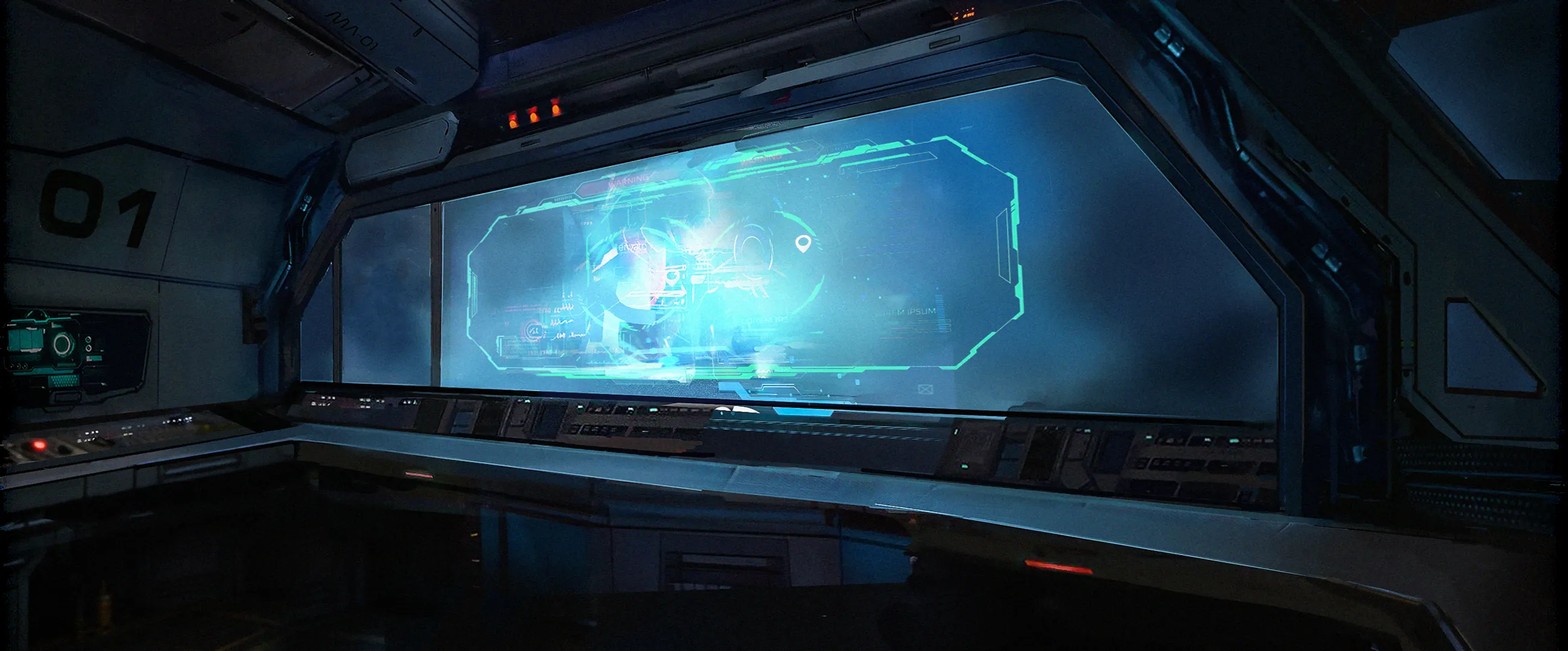
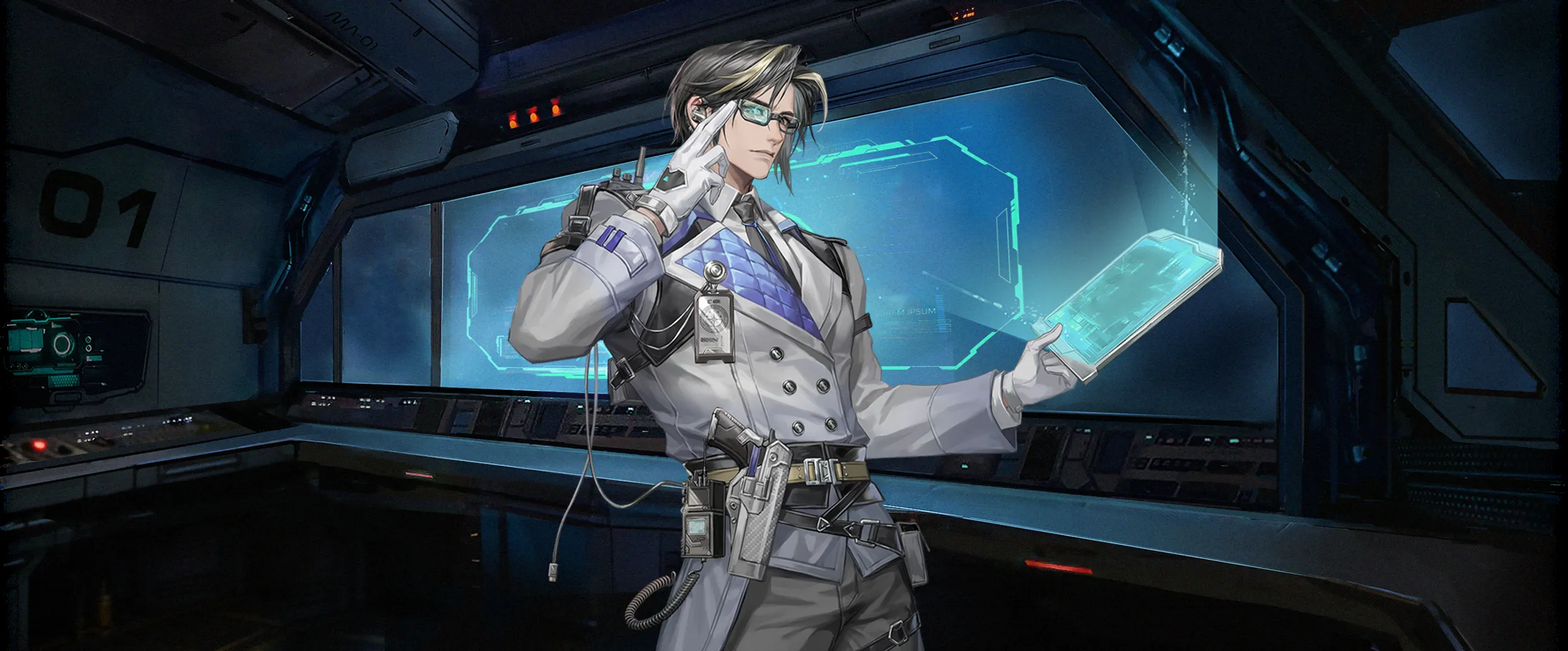
fix(lore): 招募插畫補回疊在背景上的角色層——佐伊、哈達威、瑪汀妮、戰部渡（PLAN-042-A Phase J）
這四位的卡池背景切片是挖空的（中間只剩殘影，佐伊還留著畫師浮水印），
角色是卡池 prefab 裡另一張 RawImage 疊上去的；匯入只拼兩片背景，所以站上看不到人。

- scripts/lib/pilotGachaCards.json 新增 layers：切片名＋prefab 節點＋在 2600×1080 插畫上的 rect
  （RectTransform 沿父節點累算），附「疊層」說明怎麼判斷、怎麼補
- import-game-assets.mjs --pilot-lore：composeCard 照 rect 拉伸疊上、超出畫面裁掉；
  疊層切片不限 1024²，只收 layers 點名的；報告的檢查步驟加上「中間要有角色」
- 重產這 4 張；其餘 58 張 --force 重跑後逐位元組相同
- 另 7 位（卡夏、艾達、海莉絲、樂萱…）也有角色層但背景本來就畫了，疊上去一模一樣，不寫；
  機甲卡池沒有這種結構

diff --git a/src/data/siteChangelog/2026-10.ts b/src/data/siteChangelog/2026-10.ts
@@ -3,6 +3,8 @@ import type { ChangelogMonth } from './types'
 const oct2026: ChangelogMonth = {
   month: '2026-10',
   entries: [
+    { date: '2026-10-17', type: 'fix', summary: '修正<b>佐伊、哈達威、瑪汀妮、戰部渡</b>的招募插畫只剩背景、中間看不到角色（只有殘影或浮水印）的問題。' },
+
     { date: '2026-10-17', type: 'feat', summary: '機甲故事館再加 <b>4 台會動的招募插畫</b>：君權、遊騎兵、惡兆、日蝕——'
       + '晚一兩秒才亮起、彼此錯開的光點也照遊戲的節奏播出來；卷宗最後的「卡池」點開全景就會播放，目前共 35 台。' },
 
